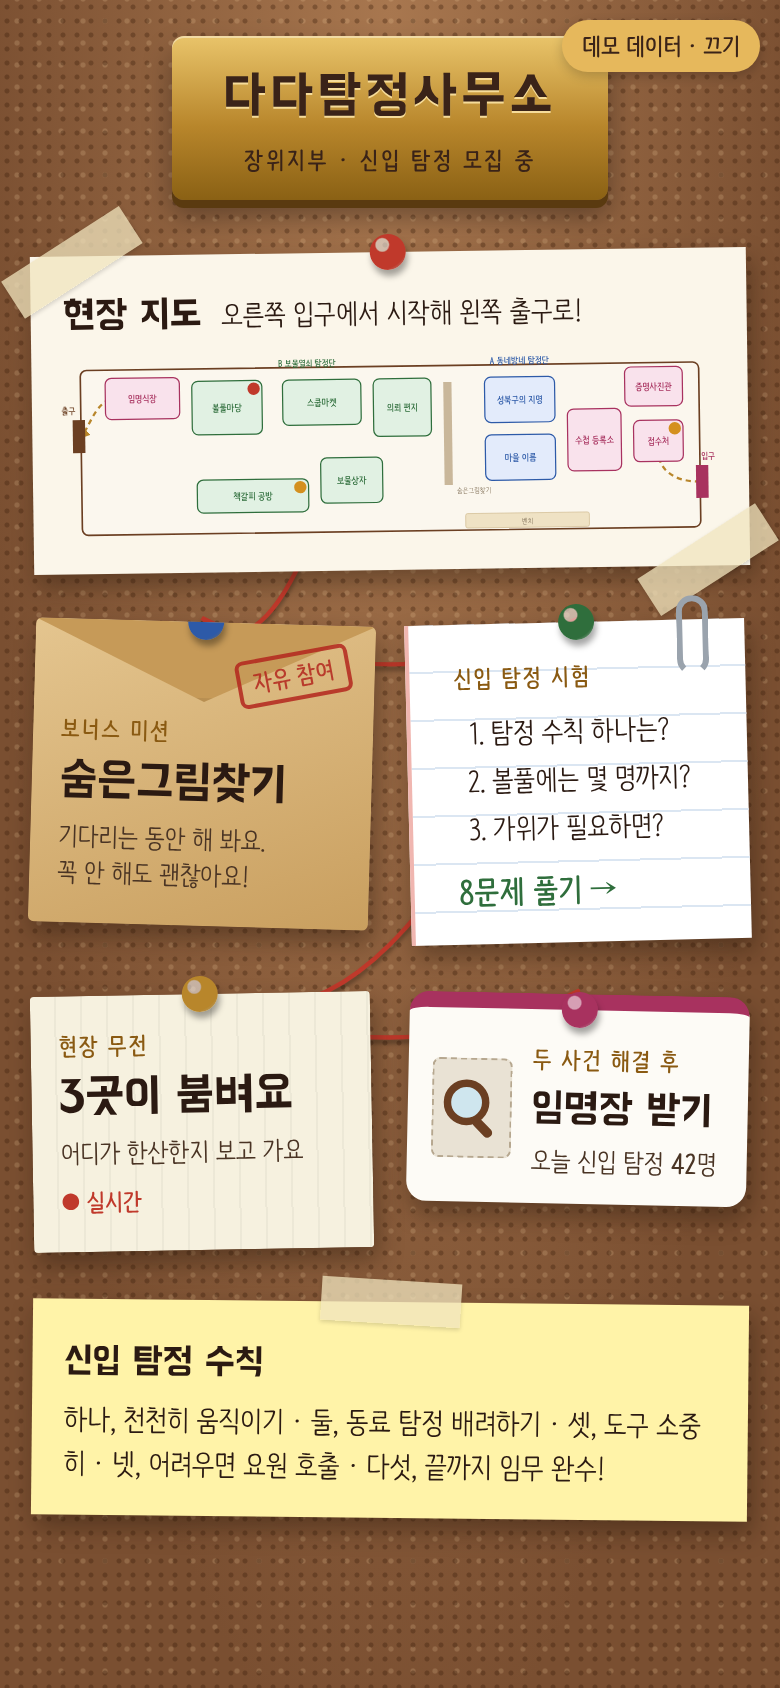
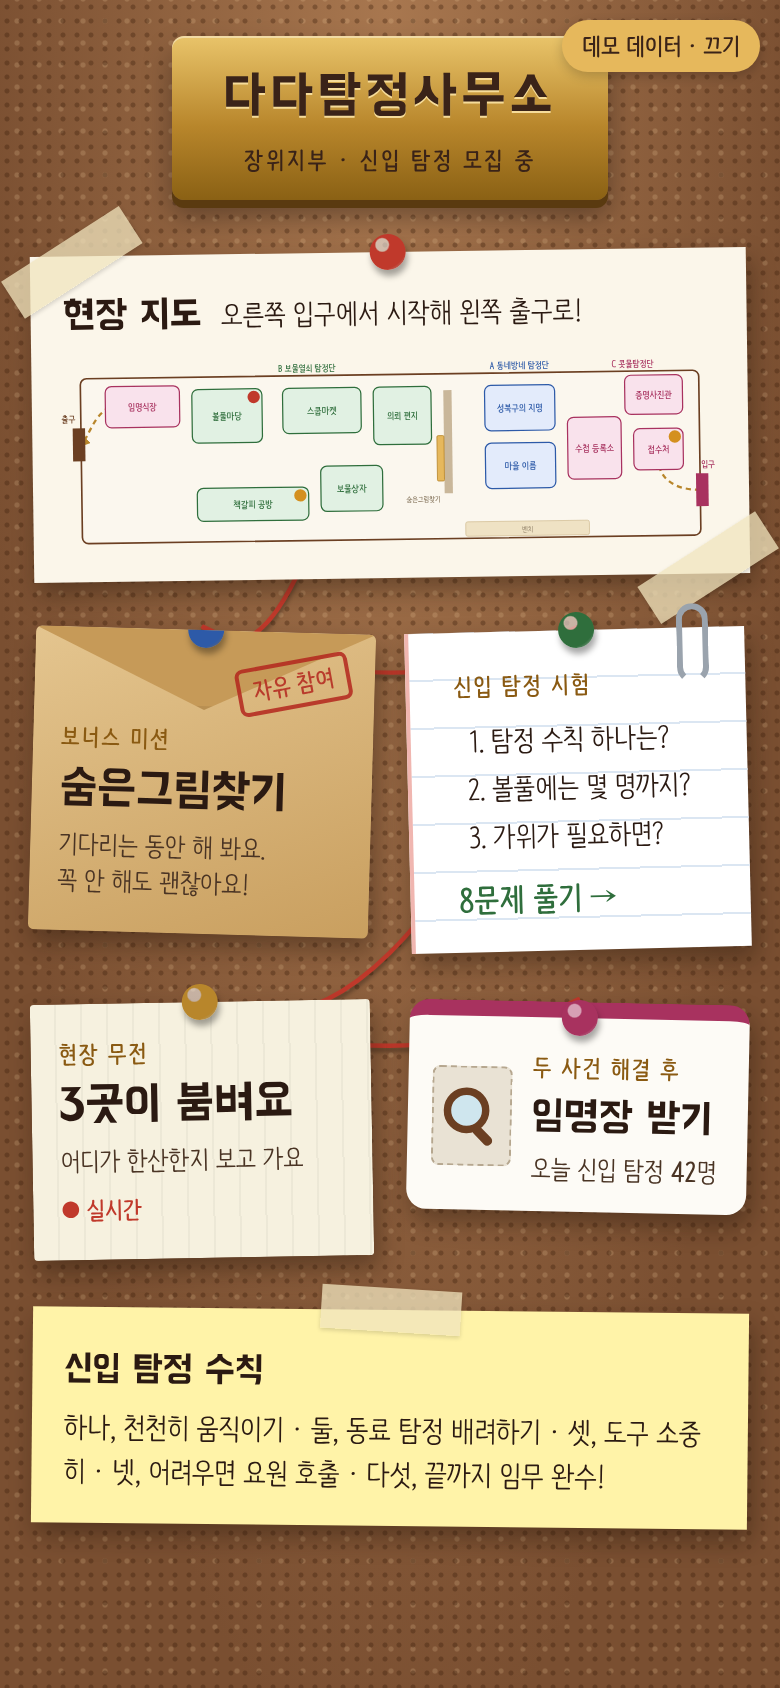
Page titles, C team label on map, hidden picture on the left face of the wall, header name switcher
Claude-Session: https://claude.ai/code/session_01HunGVxXBvAEHjpVX5R3NVK

Changed region(s): [[0.0308, 0.1848, 1.0, 0.9242]]

diff --git a/src/lib/components/FloorPlan.svelte b/src/lib/components/FloorPlan.svelte
@@ -24,20 +24,23 @@
 
 <figure class="plan">
 	<div class="scroll" class:fit>
-		<svg viewBox="-12 -4 324 92" role="img" aria-label="다다랜드 공간 배치도: 오른쪽 입구에서 접수하고, 접수처가 알려주는 탐정단부터 두 사건을 해결한 뒤 왼쪽 임명식장을 지나 출구로 나가요.">
+		<svg viewBox="-12 -8 324 96" role="img" aria-label="다다랜드 공간 배치도: 오른쪽 입구에서 접수하고, 접수처가 알려주는 탐정단부터 두 사건을 해결한 뒤 왼쪽 임명식장을 지나 출구로 나가요.">
 			<defs>
 				<marker id="ar" viewBox="0 0 10 10" refX="7" refY="5" markerWidth="5" markerHeight="5" orient="auto-start-reverse"><path d="M0 0L10 5L0 10z" fill="#b8862b" /></marker>
 			</defs>
 			<rect x="0" y="0" width="300" height="80" rx="3" fill="#fbf7ee" stroke="#6b3f22" stroke-width="0.8" />
 			<!-- 숨은그림찾기 벽 -->
 			<rect x="176" y="8" width="4" height="50" fill="#c9b79a" />
-			<text x="182" y="62" class="lb">숨은그림찾기</text>
+			<!-- 숨은그림찾기 현수막: 월의 왼쪽(보물상자 쪽) 면 -->
+			<rect x="172.6" y="30" width="3.4" height="22" rx="0.6" fill="#e6b85c" stroke="#b8862b" stroke-width="0.4" />
+			<text x="174" y="62" class="lb hp">숨은그림찾기</text>
 			<!-- 벤치 -->
 			<rect x="186" y="72" width="60" height="7" rx="1" fill="#efe2c4" stroke="#d6c39b" stroke-width="0.4" />
 			<text x="216" y="77.2" class="lb mid">벤치</text>
 			<!-- 동선 -->
-			<text x="213" y="-0.6" class="team" fill="#2d5aa8">A 동네방네 탐정단</text>
-			<text x="110" y="-0.6" class="team" fill="#2f6e3c">B 보물열쇠 탐정단</text>
+			<text x="213" y="-2.2" class="team" fill="#2d5aa8">A 동네방네 탐정단</text>
+			<text x="110" y="-2.2" class="team" fill="#2f6e3c">B 보물열쇠 탐정단</text>
+			<text x="268" y="-2.2" class="team" fill="#a8325f">C 콧물탐정단</text>
 			<path d="M300 58 C 285 58, 280 50, 280 44 M14 14 C 6 18, 4 28, 0 32" fill="none" stroke="#b8862b" stroke-width="1.1" stroke-dasharray="2.5 2" marker-end="url(#ar)" />
 			{#each zones as z}
 				{@const st = live.status[z.k]?.status ?? 'ok'}
@@ -66,6 +69,7 @@
 	.fit svg { min-width: 0; }
 		.nm { font-size: 4.6px; font-weight: 700; text-anchor: middle; }
 	.team { font-size: 4.4px; font-weight: 700; text-anchor: middle; }
+	.hp { text-anchor: end; fill: #9a6a1c; font-weight: 700; }
 	.lb { font-size: 3.6px; fill: #8a7a62; }
 	.mid { text-anchor: middle; }
 	.door { font-size: 4.4px; font-weight: 700; text-anchor: middle; }

diff --git a/src/routes/staff/+layout.svelte b/src/routes/staff/+layout.svelte
@@ -3,6 +3,8 @@
 	import { onMount } from 'svelte';
 	import { clock } from '$lib/clock.svelte';
 	import { live } from '$lib/live.svelte';
+	import { me } from '$lib/me.svelte';
+	import { goto } from '$app/navigation';
 	import { fmt, toMin, SLOTS } from '$lib/schedule';
 	let { children } = $props();
 
@@ -23,10 +25,13 @@
 		end = toMin(SLOTS[11]);
 </script>
 
-<svelte:head><meta name="theme-color" content="#6b3f22" /></svelte:head>
+<svelte:head><title>다다랜드 운영요원</title><meta name="theme-color" content="#6b3f22" /></svelte:head>
 
 <header class="top">
 	<a href="/staff" class="brand"><span class="mag" aria-hidden="true"></span>다다랜드 운영요원</a>
+	{#if me.name}
+		<button class="who" onclick={() => { if (confirm(`${me.name}님이 아니신가요? 이름을 다시 고를게요.`)) { me.set(null); goto('/staff'); } }} aria-label="이름 다시 고르기">{me.name} <small>바꾸기</small></button>
+	{/if}
 	<span class="time tnum" title={clock.usingPreview ? '미리보기 시간' : '현재 시간'}>
 		{clock.usingPreview ? '미리보기 ' : ''}{fmt(clock.min)}
 	</span>
@@ -61,6 +66,8 @@
 	.brand { text-decoration: none; font-family: var(--display); font-size: 19px; display: flex; align-items: center; gap: 8px; }
 	.mag { width: 18px; height: 18px; border: 3px solid #fff; border-radius: 50%; position: relative; }
 	.mag::after { content: ''; position: absolute; width: 3px; height: 8px; background: #fff; right: -5px; bottom: -7px; transform: rotate(-45deg); border-radius: 2px; }
+	.who { margin-left: auto; margin-right: 8px; border: 1px solid rgba(255, 255, 255, 0.45); background: transparent; color: #fff; font-weight: 700; font-size: 14px; padding: 3px 10px; border-radius: 999px; white-space: nowrap; }
+	.who small { font-weight: 400; opacity: 0.8; font-size: 12px; }
 	.time { font-weight: 700; background: rgba(255, 255, 255, 0.16); padding: 3px 10px; border-radius: 999px; font-size: 14px; }
 	.preview { background: #fff4d8; border-bottom: 1px solid #ecd9a8; padding: 8px max(16px, env(safe-area-inset-left, 0px)); display: flex; flex-wrap: wrap; gap: 6px 10px; align-items: center; }
 	.preview input { flex: 1; min-width: 160px; accent-color: var(--brown); }

diff --git a/src/app.html b/src/app.html
@@ -9,7 +9,7 @@
 		<meta name="apple-mobile-web-app-capable" content="yes" />
 		<meta name="apple-mobile-web-app-title" content="다다랜드" />
 		<meta name="apple-mobile-web-app-status-bar-style" content="default" />
-		<title>다다랜드 운영요원</title>
+		<title>다다탐정사무소 장위지부</title>
 		%sveltekit.head%
 	</head>
 	<body data-sveltekit-preload-data="hover">

diff --git a/src/routes/(public)/+layout.svelte b/src/routes/(public)/+layout.svelte
@@ -13,7 +13,7 @@
 	const bar = $derived(isHome ? '#9a6a44' : '#6e4426');
 </script>
 
-<svelte:head><meta name="theme-color" content={bar} /></svelte:head>
+<svelte:head><title>다다탐정사무소 장위지부</title><meta name="theme-color" content={bar} /></svelte:head>
 
 <div class="desk">
 	{#if !isHome}

diff --git a/src/routes/board/+page.svelte b/src/routes/board/+page.svelte
@@ -22,6 +22,8 @@
 	const pb = Object.fromEntries(PUBLIC_BOOTHS.map((b) => [b.key, b.title]));
 </script>
 
+<svelte:head><title>다다랜드 전광판</title></svelte:head>
+
 <div class="board">
 	<section class="left">
 		<p class="kicker">다다탐정사무소 장위지부</p>
